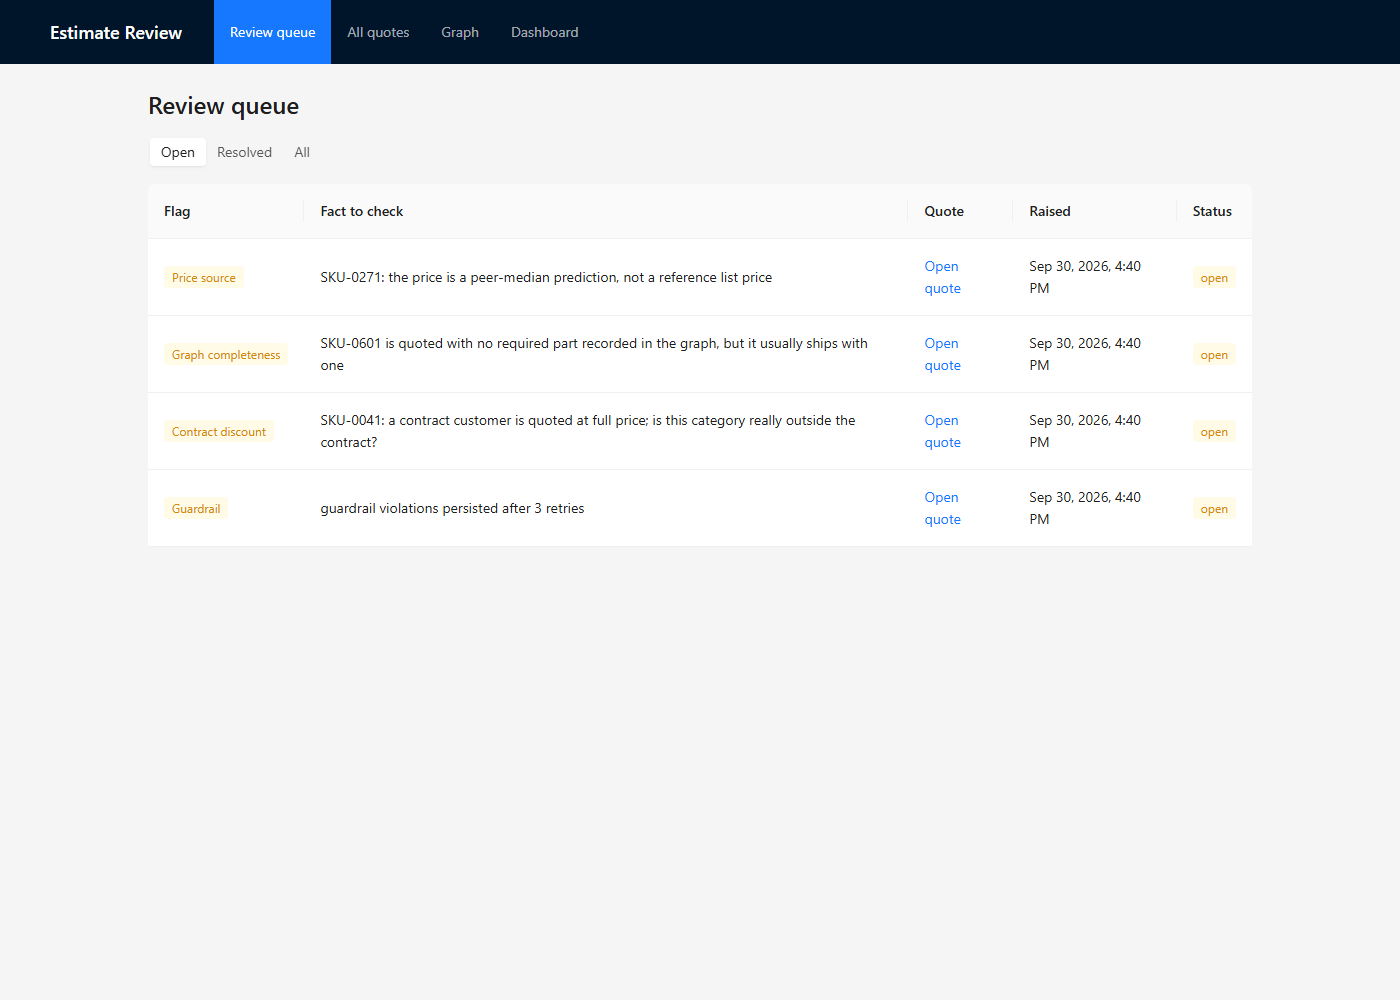
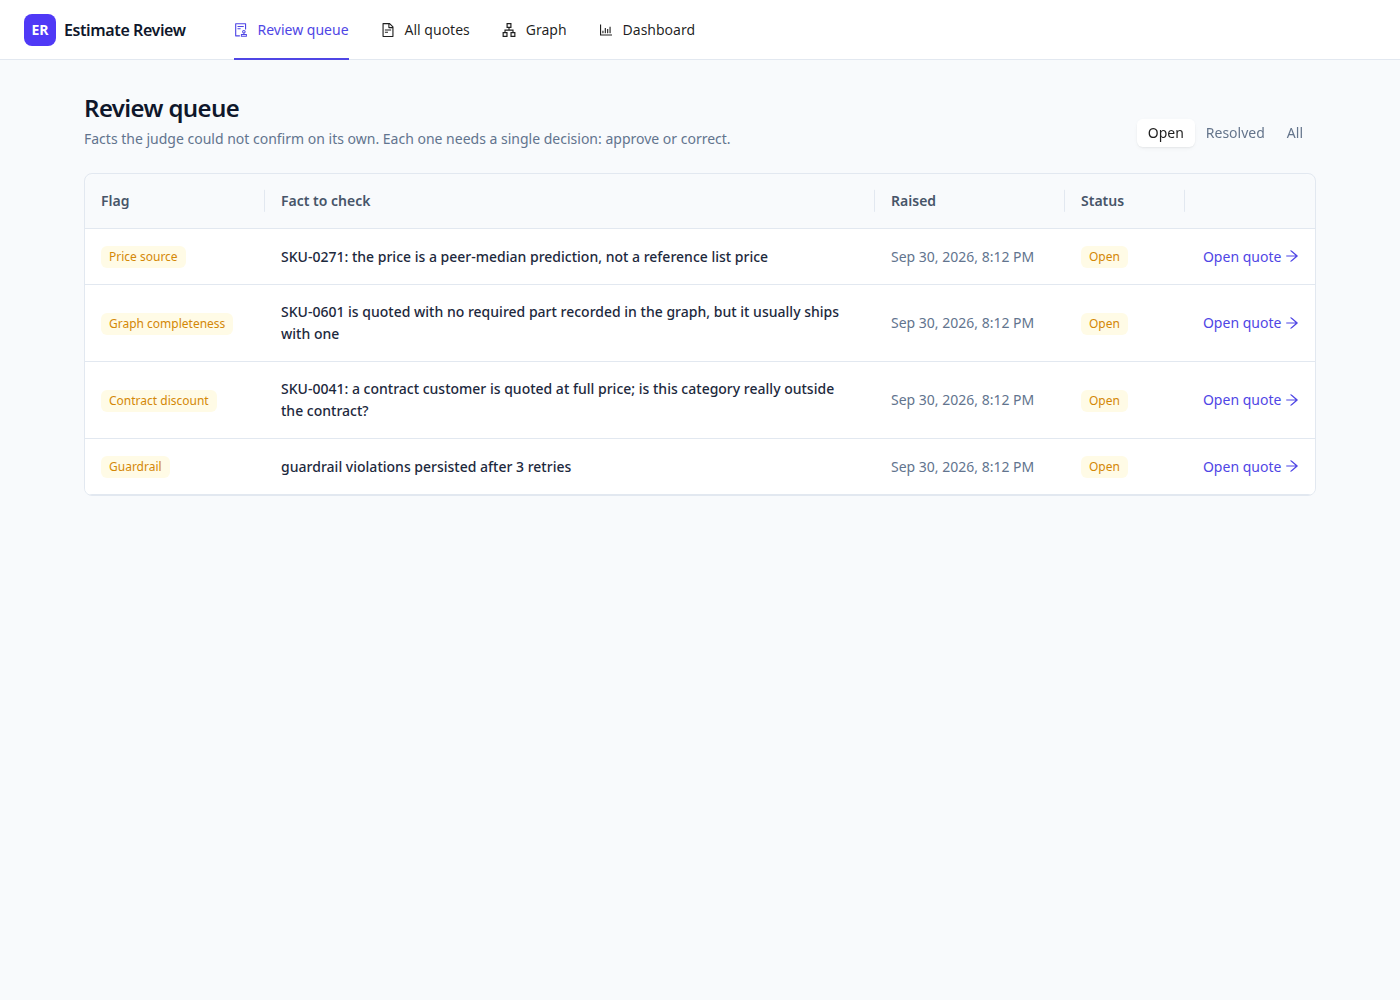
docs(interview-kit): refresh screenshots and demo path for the new UI
- retake all five demo screenshots from the running app in the same seeded state (4 open flags)
- describe the two-column quote detail, row click, human labels and percent confidence
- mention the graph back, forward and path trail in the graph step

diff --git a/docs/interview-prep/phase8-interview-kit/05-demo-path.md b/docs/interview-prep/phase8-interview-kit/05-demo-path.md
@@ -1,6 +1,6 @@
 # 05. Demo Path (5 minutes)
 
-A click path through the running app, with what I say at each step. All entities below come from the synthetic seeded data. The screenshots in `images/` were taken from the running app on 2026-09-30 with headless Chrome, against the state this file describes (4 open flags, nothing resolved yet).
+A click path through the running app, with what I say at each step. All entities below come from the synthetic seeded data. The screenshots in `images/` were taken from the running app on 2026-09-30 with headless Chrome, against the state this file describes (4 open flags, nothing resolved yet). They were retaken the same day after the UI polish pass (human labels, two-column quote detail, graph back and forward), so they match the current screens.
 
 ## Before I start
 
@@ -23,15 +23,15 @@ What I say:
 
 ## Step 2. Quote detail with evidence (90 seconds)
 
-Click "Open quote" on the first row (Price source). This is quote `sc-0051`, customer `CUST-0121`, Sterling Mechanical.
+Click the first row (Price source), or its "Open quote" link. This is quote `sc-0051`, customer `CUST-0121`, Sterling Mechanical.
 
 ![Quote detail with a predicted-price flag and evidence](images/02-quote-detail-price-flag.png)
 
-What I see: the customer email, the estimate lines, the totals, the judge's three scores, and a "Check this" card with the evidence.
+What I see: the customer email on the left; on the right, the estimate, with the "Check this" card and its evidence first ("Needs your review"), then the line items and totals, then the judge's three scores.
 
 What I say:
-- "Top: the original email. Messy, no part numbers. Below: the estimate. Line one, SKU-0271, Brass Union 2-1/2 in, is marked `predicted`. Line two has a list price and a 12 percent contract discount."
-- "The judge scored three dimensions. Price source got 20 percent, and the other two got 95 and 90. The overall confidence is the lowest one, 0.20, so this goes to a human."
+- "Left: the original email. Messy, no part numbers. Right: the estimate, with the one fact to check at the top. Line one, SKU-0271, Brass Union 2-1/2 in, is marked Predicted. Line two has a list price and a 12 percent contract discount."
+- "The judge scored three dimensions. Price source got 20 percent, and the other two got 95 and 90. The overall confidence is the lowest one, 20 percent, so this goes to a human."
 - "The evidence card shows what the judge saw: predicted price 247.66, from 171 peers, in a band of 140.07 to 349.73. The reviewer can approve it as is, or correct the price."
 - "Two honest notes. The 0.20 is a scripted score in this demo. With the real judge and its prompt anchors, 171 peers would probably not score that low, because the anchor only forces a low score under 10 peers. And the quantities are 1 even though the email says 4 and 2, because the scripted extraction sets every quantity to 1."
 - "This SKU has no list price because the seed removes it on purpose, to plant a pricing gap. The dataset's own unpriced SKUs appear in none of the scenarios."
@@ -56,6 +56,7 @@ Now open `http://localhost:7050/graph?node=SKU-0601` (or search "SKU-0601" and c
 What I say:
 - "This is SKU-0601, an aftermarket belt. It sits in the Aftermarket Belt family, it is priced in the HVAC-Parts category, and another part, an aftermarket motor mount, requires it."
 - "This is the case behind the second flag in the queue: the belt was quoted with no required part recorded. The graph is how the system answers 'what does this part need', in one hop, with a visible path."
+- "The back and forward arrows, and the trail above the graph, step through what I explored, so I can drill into a type or a node and come straight back to the overview."
 - "I would not draw the whole graph live. It is 1712 nodes. I built it in levels: schema first, then a type's 60 most connected nodes, then one hop at a time."
 
 ## Step 4. Dashboard (45 seconds)
